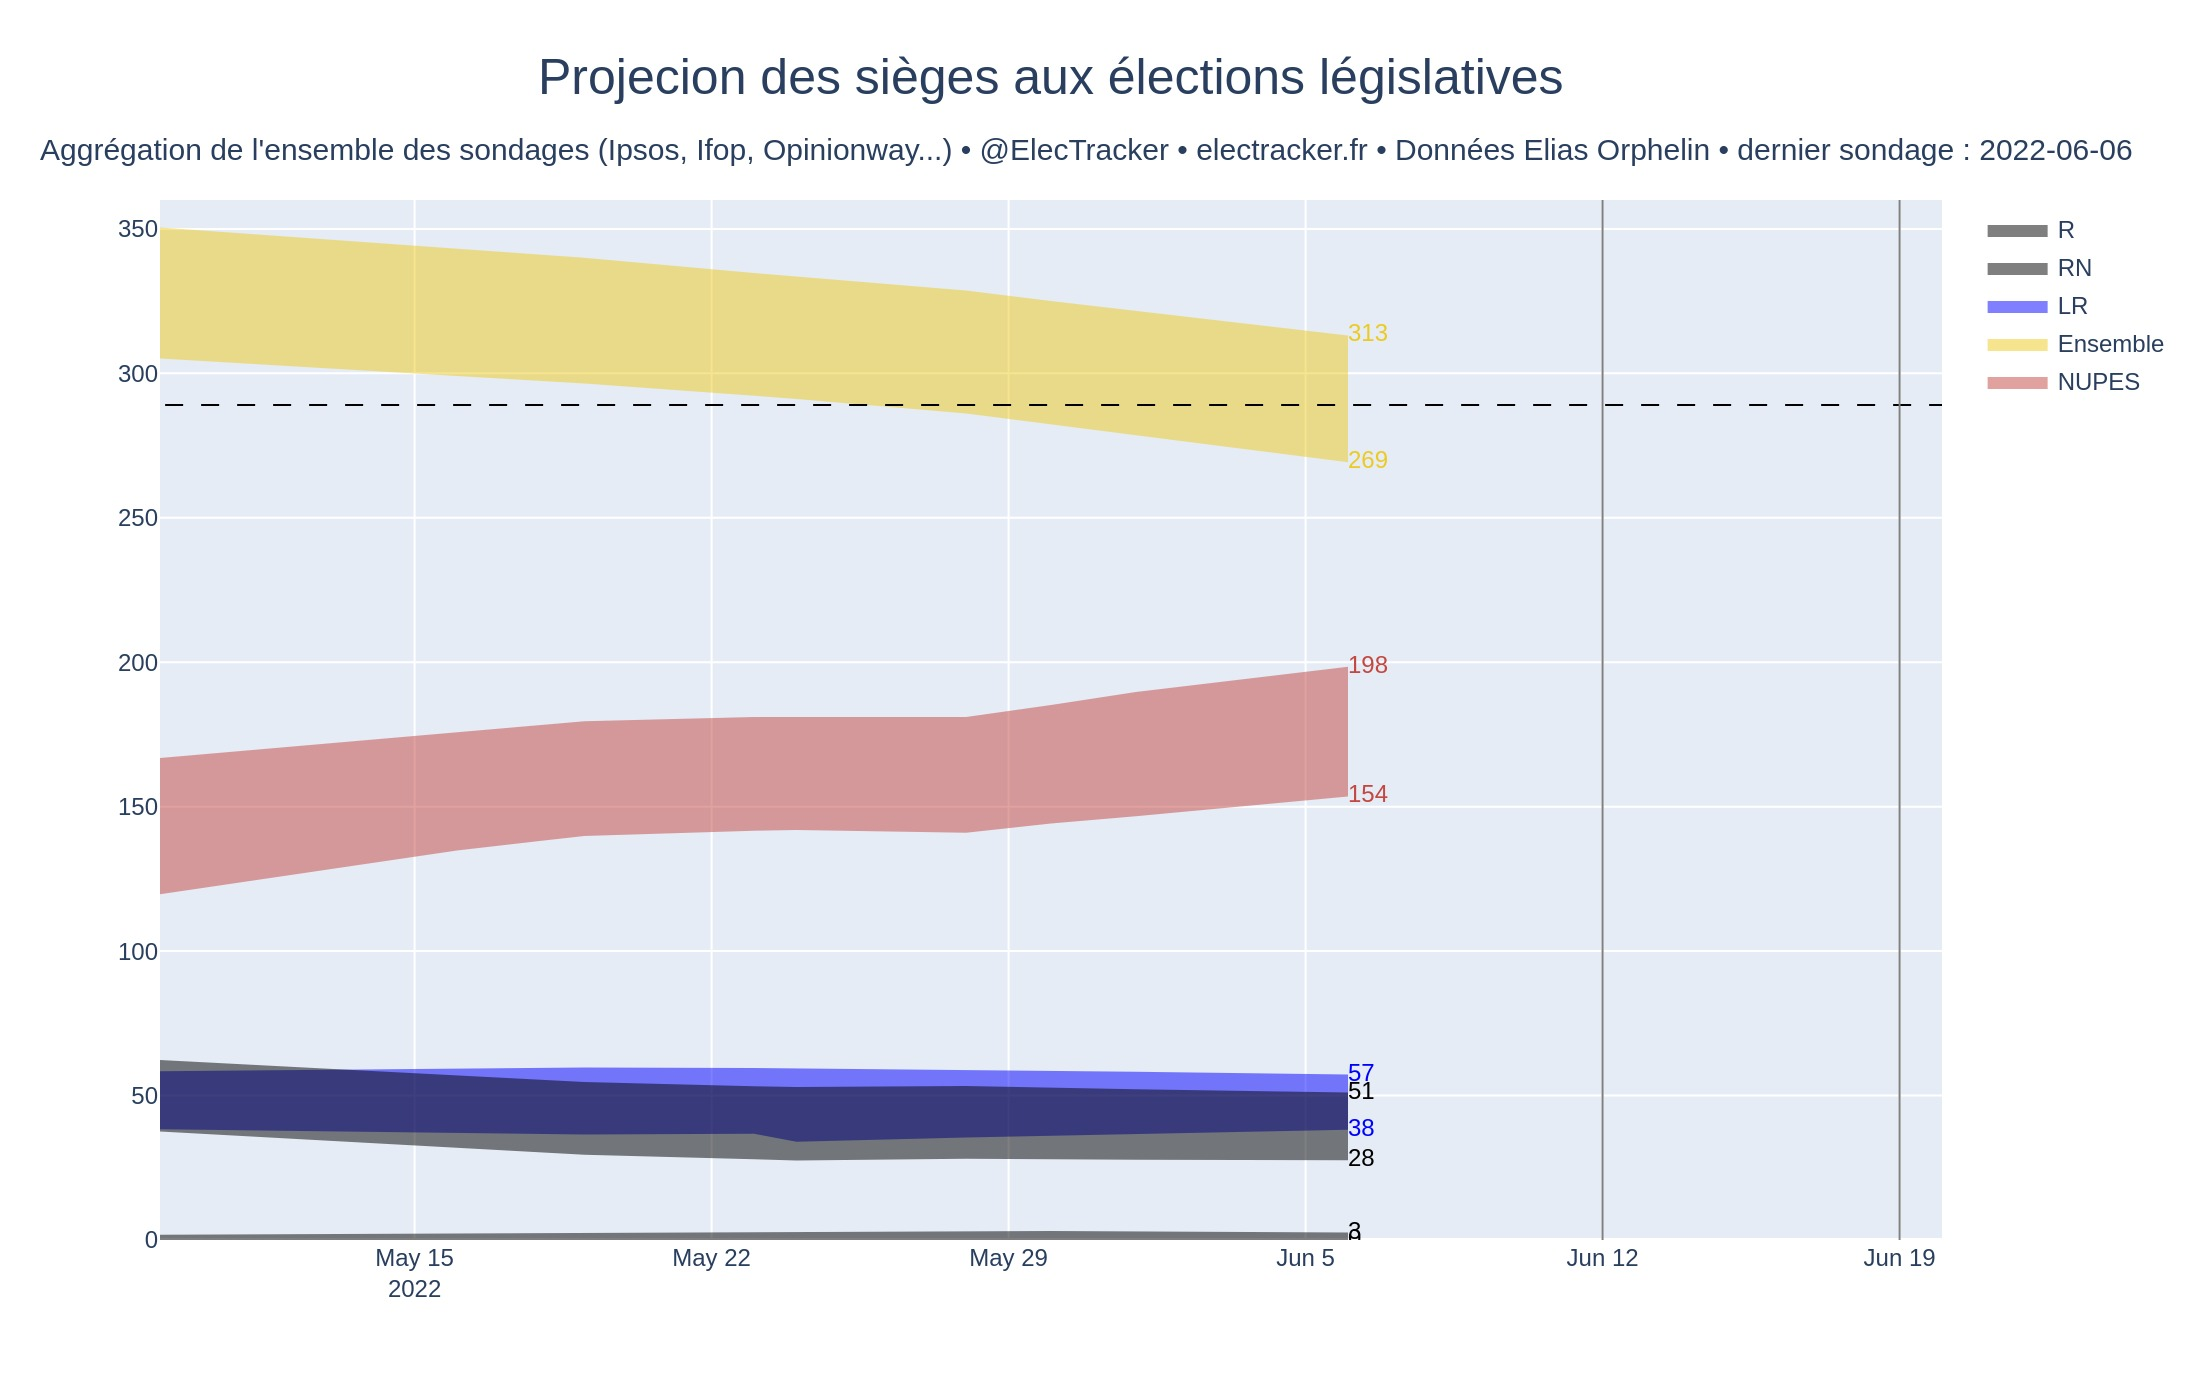
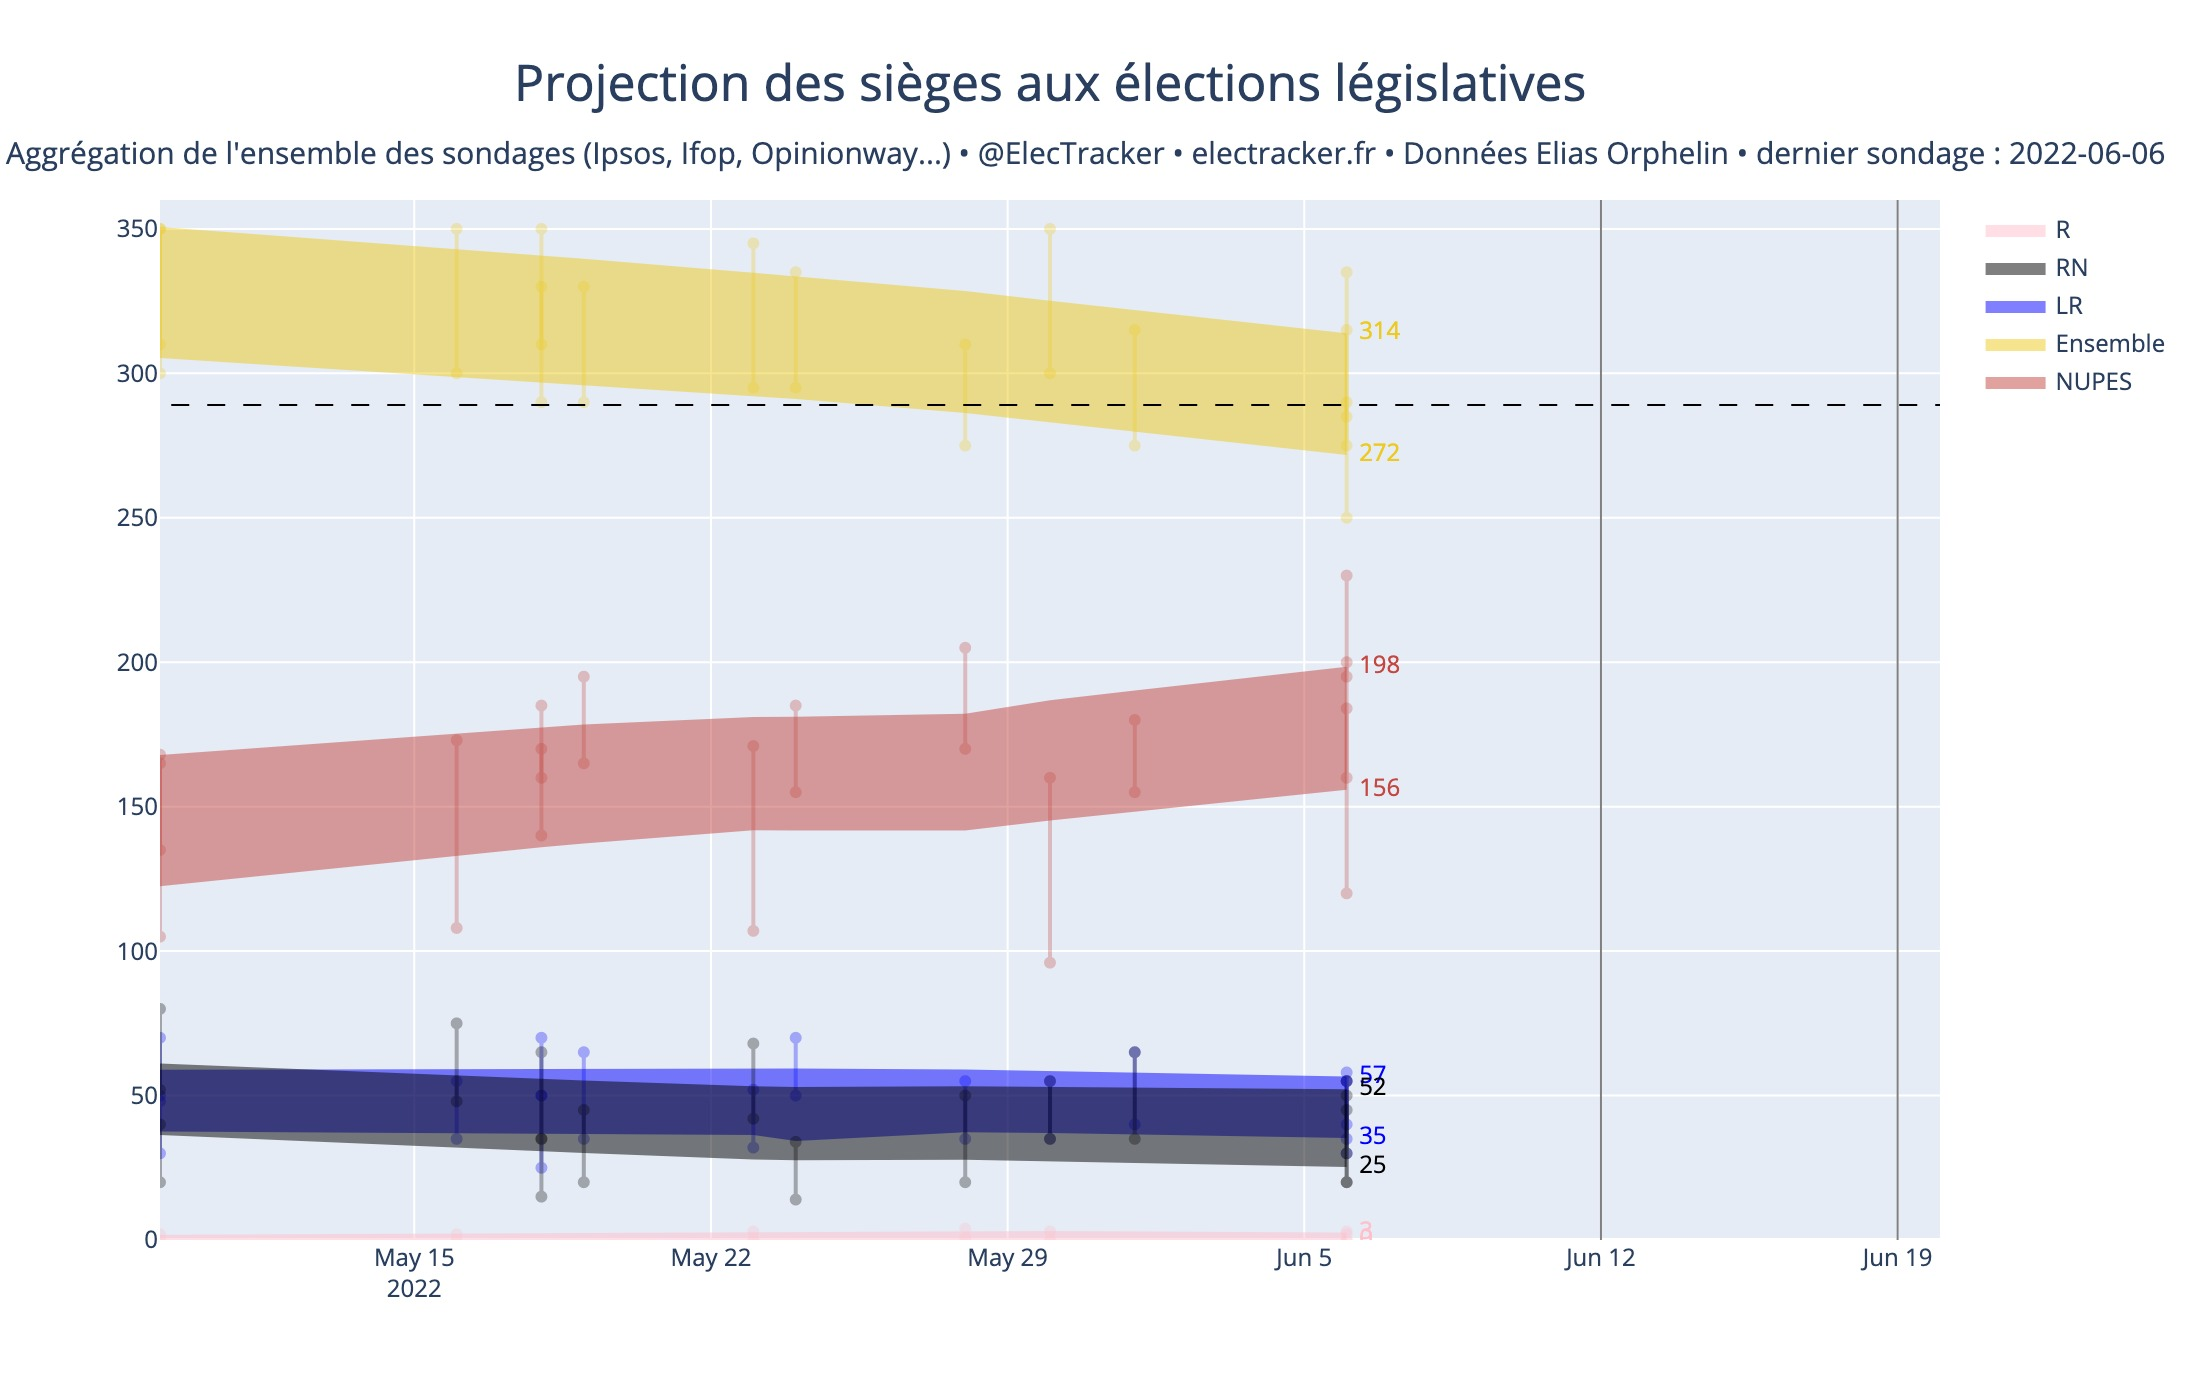
Amélioration du graphique Sièges, et ajout d'un graphique Score

diff --git a/src/graphique.py b/src/graphique.py
@@ -10,98 +10,209 @@ couleurs={
     "NUPES": "#c44740",
     "ExtG": "red",
     "RN": "black",
-    "LR": "blue"
+    "LR": "blue",
+    "R": "pink"
 }
 
 print(data.keys())
 
-fig = go.Figure()
+def graphique_sieges():
+    fig = go.Figure()
 
-for parti in data:
-    
-    if parti not in ["Autre", "ExtG", "DivEco", "PA", "DivG"]:
-        print(parti)
-        fig.add_trace(
-            go.Scatter(
-                x=data[parti]["fin_enquete"],
-                y=data[parti]["sieges_haut_loess"],
-                marker_color=couleurs.get(parti, "black"),
-                line_width=0,
-                mode="lines+text",
-                showlegend=False,
-                text=[""] * (len(data[parti]["sieges_haut_loess"])-1) + [round(data[parti]["sieges_haut_loess"][-1])],
-                textposition="middle right",
-                textfont=dict(color=couleurs.get(parti, "black")),
+    for parti in data:
+        
+        if parti not in ["Autre", "ExtG", "DivEco", "PA", "DivG"]:
+            print(parti)
+            fig.add_trace(
+                go.Scatter(
+                    x=data[parti]["fin_enquete"],
+                    y=data[parti]["sieges_haut_loess"],
+                    marker_color=couleurs.get(parti, "black"),
+                    line_width=0,
+                    mode="lines+text",
+                    showlegend=False,
+                    text=[""] * (len(data[parti]["sieges_haut_loess"])-1) + ["  " + str(round(data[parti]["sieges_haut_loess"][-1]))],
+                    textposition="middle right",
+                    textfont=dict(color=couleurs.get(parti, "black")),
+                )
             )
-        )
 
-        fig.add_trace(
-            go.Scatter(
-                x=data[parti]["fin_enquete"],
-                y=data[parti]["sieges_bas_loess"],
-                fill="tonexty",
-                line_width=0,
-                mode="lines+text",
-                marker_color=couleurs.get(parti, "black"),
-                name=parti,
-                text=[""] * (len(data[parti]["sieges_haut_loess"])-1) + [round(data[parti]["sieges_bas_loess"][-1])],
-                textposition="middle right",
-                textfont=dict(color=couleurs.get(parti, "black")),
-                
+            fig.add_trace(
+                go.Scatter(
+                    x=data[parti]["fin_enquete"],
+                    y=data[parti]["sieges_bas_loess"],
+                    fill="tonexty",
+                    line_width=0,
+                    mode="lines+text",
+                    marker_color=couleurs.get(parti, "black"),
+                    name=parti,
+                    text=[""] * (len(data[parti]["sieges_haut_loess"])-1) + ["  " + str(round(data[parti]["sieges_bas_loess"][-1]))],
+                    textposition="middle right",
+                    textfont=dict(color=couleurs.get(parti, "black")),
+                )
             )
+
+            for numero_sondage in range(len(data[parti]["sieges_bas"])):
+                fig.add_trace(
+                    go.Scatter(
+                        x=[data[parti]["fin_enquete"][numero_sondage], data[parti]["fin_enquete"][numero_sondage]],
+                        y=[data[parti]["sieges_bas"][numero_sondage], data[parti]["sieges_haut"][numero_sondage]],
+                        mode="markers+lines",
+                        marker_color=couleurs.get(parti, "black"),
+                        name=parti,
+                        text=[""] * (len(data[parti]["sieges_haut_loess"])-1) + [round(data[parti]["sieges_bas_loess"][-1])],
+                        textposition="middle right",
+                        textfont=dict(color=couleurs.get(parti, "black")),
+                        opacity=0.3,
+                        showlegend=False
+                    )
+                )
+
+            
+
+    fig.add_shape(type="line",
+        x0="2022-01-01", y0=289, x1="2022-10-01", y1=289,
+        line=dict(
+            color="black",
+            width=1,
+            dash="dash",
         )
-
-fig.add_shape(type="line",
-    x0="2022-01-01", y0=289, x1="2022-10-01", y1=289,
-    line=dict(
-        color="black",
-        width=1,
-        dash="dash",
     )
-)
 
-fig.add_shape(type="line",
-    x0="2022-06-12", y0=0, x1="2022-06-12", y1=360,
-    line=dict(
-        color="grey",
-        width=1,
+    fig.add_shape(type="line",
+        x0="2022-06-12", y0=0, x1="2022-06-12", y1=360,
+        line=dict(
+            color="grey",
+            width=1,
+        )
     )
-)
 
-fig.add_shape(type="line",
-    x0="2022-06-19", y0=0, x1="2022-06-19", y1=360,
-    line=dict(
-        color="grey",
-        width=1,
+    fig.add_shape(type="line",
+        x0="2022-06-19", y0=0, x1="2022-06-19", y1=360,
+        line=dict(
+            color="grey",
+            width=1,
+        )
     )
-)
 
-fig.update_xaxes(range=[data["Ensemble"]["fin_enquete"][0], "2022-06-20"])
-fig.update_yaxes(range=[0, 360])
+    fig.update_xaxes(range=[data["Ensemble"]["fin_enquete"][0], "2022-06-20"])
+    fig.update_yaxes(range=[0, 360])
 
-fig.add_annotation(
-    {
-        "x": 0.5,
-        "y": 1.15,
-        "xref": "paper",
-        "yref": "paper",
-        "text": f"Projection des sièges aux élections législatives",
-        "font": {"size": 25,},
-        "xanchor": "center",
-        "showarrow": False,
-    })
+    fig.add_annotation(
+        {
+            "x": 0.5,
+            "y": 1.15,
+            "xref": "paper",
+            "yref": "paper",
+            "text": f"Projection des sièges aux élections législatives",
+            "font": {"size": 25,},
+            "xanchor": "center",
+            "showarrow": False,
+        })
 
-fig.add_annotation(
-    {
-        "x": 0.52,
-        "y": 1.07,
-        "xref": "paper",
-        "yref": "paper",
-        "text": f"Aggrégation de l'ensemble des sondages (Ipsos, Ifop, Opinionway...) • @ElecTracker • electracker.fr • Données Elias Orphelin • dernier sondage : {data['Ensemble']['fin_enquete'][-1]}",
-        "font": {"size": 15},
-        "xanchor": "center",
-        "showarrow": False,
-    }
-)
+    fig.add_annotation(
+        {
+            "x": 0.52,
+            "y": 1.07,
+            "xref": "paper",
+            "yref": "paper",
+            "text": f"Aggrégation de l'ensemble des sondages (Ipsos, Ifop, Opinionway...) • @ElecTracker • electracker.fr • Données Elias Orphelin • dernier sondage : {data['Ensemble']['fin_enquete'][-1]}",
+            "font": {"size": 15},
+            "xanchor": "center",
+            "showarrow": False,
+        }
+    )
 
-fig.write_image("SondagesLegislativesLoess.jpeg", width=1100, height=700, scale=2)
+    fig.write_image("SondagesLegislativesLoessSieges.jpeg", width=1100, height=700, scale=2)
+
+def graphique_score():
+    fig = go.Figure()
+
+    for parti in data:
+        
+        if parti not in ["Autre", "ExtG", "DivEco", "PA", "DivG"]:
+            print(parti)
+            fig.add_trace(
+                go.Scatter(
+                    x=data[parti]["fin_enquete_score"],
+                    y=data[parti]["score"],
+                    marker_color=couleurs.get(parti, "black"),
+                    mode="markers",
+                    showlegend=False,
+                    textfont=dict(color=couleurs.get(parti, "black")),
+                )
+            )
+
+            fig.add_trace(
+                go.Scatter(
+                    x=data[parti]["fin_enquete_score"],
+                    y=data[parti]["score_loess"],
+                    marker_color=couleurs.get(parti, "black"),
+                    mode="lines+text",
+                    showlegend=True,
+                    text=[""] * (len(data[parti]["score"])-1) + ["  " + str(round(data[parti]["score_loess"][-1], 1)) + " %"],
+                    textposition="middle right",
+                    textfont=dict(color=couleurs.get(parti, "black")),
+                    name=parti
+                )
+            )
+
+
+    fig.add_shape(type="line",
+        x0="2022-01-01", y0=289, x1="2022-10-01", y1=289,
+        line=dict(
+            color="black",
+            width=1,
+            dash="dash",
+        )
+    )
+
+    fig.add_shape(type="line",
+        x0="2022-06-12", y0=0, x1="2022-06-12", y1=360,
+        line=dict(
+            color="grey",
+            width=1,
+        )
+    )
+
+    fig.add_shape(type="line",
+        x0="2022-06-19", y0=0, x1="2022-06-19", y1=360,
+        line=dict(
+            color="grey",
+            width=1,
+        )
+    )
+
+    fig.update_xaxes(range=[data["Ensemble"]["fin_enquete"][0], "2022-06-20"])
+    fig.update_yaxes(range=[0, 30])
+
+    fig.add_annotation(
+        {
+            "x": 0.5,
+            "y": 1.15,
+            "xref": "paper",
+            "yref": "paper",
+            "text": f"Intentions de vote aux élections législatives",
+            "font": {"size": 25,},
+            "xanchor": "center",
+            "showarrow": False,
+        })
+
+    fig.add_annotation(
+        {
+            "x": 0.52,
+            "y": 1.07,
+            "xref": "paper",
+            "yref": "paper",
+            "text": f"Aggrégation de l'ensemble des sondages (Ipsos, Ifop, Opinionway...) • @ElecTracker • electracker.fr • Données Elias Orphelin • dernier sondage : {data['Ensemble']['fin_enquete'][-1]}",
+            "font": {"size": 15},
+            "xanchor": "center",
+            "showarrow": False,
+        }
+    )
+
+    fig.write_image("SondagesLegislativesLoessScore.jpeg", width=1100, height=700, scale=2)
+
+
+graphique_sieges()
+graphique_score()

diff --git a/src/loess_mean.py b/src/loess_mean.py
@@ -10,8 +10,17 @@ partis = df.parti.unique()
 print(partis)
 dict_json = {}
 
-def add_to_json(parti, xout_dt, yout_sieges_haut, yout_sieges_bas):
-    dict_json[parti] = {"fin_enquete": list(xout_dt), "sieges_haut_loess": list(yout_sieges_haut), "sieges_bas_loess": list(yout_sieges_bas)}
+def add_to_json(parti, xout_dt, xout_dt_score, yout_sieges_haut_loess, yout_sieges_haut, yout_sieges_bas_loess, yout_sieges_bas, score, score_loess):
+    dict_json[parti] = {
+        "fin_enquete": list(xout_dt),
+        "fin_enquete_score": list(xout_dt_score),
+        "sieges_haut_loess": list(yout_sieges_haut_loess), 
+        "sieges_haut": list(yout_sieges_haut),
+        "sieges_bas_loess": list(yout_sieges_bas_loess),
+        "sieges_bas": list(yout_sieges_bas),
+        "score": list(score),
+        "score_loess": list(score_loess)
+        }
 
 def export_json():
     with open('SondagesLegislatives2022Loess.json', 'w') as outfile:
@@ -22,24 +31,42 @@ def get_loess_mean(df_parti):
     y = df_parti.intentions.values
     xout, yout, wout = loess_1d.loess_1d(fin_enquete_ts.values, y, xnew=None, degree=1, frac=0.8, npoints=None, rotate=False, sigy=None)
     xout_dt = [datetime.datetime.fromtimestamp(date).strftime('%Y-%m-%d') for date in xout]
-    return xout_dt, yout
+    return xout_dt, yout, y
 
 
-for parti in partis:
-    print(parti)
-    try:
-        df_parti = df[df["parti"]==parti].reset_index()
 
-        df_parti_sieges_haut = df_parti[df_parti["type"]=="sieges-haut"]
-        xout_dt, yout_sieges_haut = get_loess_mean(df_parti_sieges_haut)
+def main():
+    for parti in partis:
+        print(parti)
+        try:
+            df_parti = df[df["parti"]==parti].reset_index()
 
-        df_parti_sieges_bas = df_parti[df_parti["type"]=="sieges-bas"]
-        xout_dt, yout_sieges_bas = get_loess_mean(df_parti_sieges_bas)
+            df_parti_sieges_haut = df_parti[df_parti["type"]=="sieges-haut"]
+            xout_dt, yout_sieges_haut_loess, yout_sieges_haut = get_loess_mean(df_parti_sieges_haut)
 
-        add_to_json(parti, xout_dt, yout_sieges_haut = np.round(yout_sieges_haut, 2), yout_sieges_bas = np.round(yout_sieges_bas, 2))
+            df_parti_sieges_bas = df_parti[df_parti["type"]=="sieges-bas"]
+            xout_dt, yout_sieges_bas_loess, yout_sieges_bas = get_loess_mean(df_parti_sieges_bas)
 
-        print("✅ success\n")
-    except:
-        print("❌ error\n")
+            df_parti_score = df_parti[df_parti["type"]=="score"]
+            xout_dt_score, yout_score_loess, yout_score = get_loess_mean(df_parti_score)
 
-    export_json()
+            add_to_json(
+                parti=parti, 
+                xout_dt=xout_dt,
+                xout_dt_score=xout_dt_score,
+                yout_sieges_haut_loess=np.round(yout_sieges_haut_loess, 2),
+                yout_sieges_haut=np.round(yout_sieges_haut, 2),
+                yout_sieges_bas_loess=np.round(yout_sieges_bas_loess, 2),
+                yout_sieges_bas=np.round(yout_sieges_bas, 2),
+                score=np.round(yout_score, 2),
+                score_loess=np.round(yout_score_loess, 2)
+                )
+
+            print("✅ success\n")
+        except Exception as e:
+            print(e)
+            print("❌ error\n")
+
+        export_json()
+
+main()
